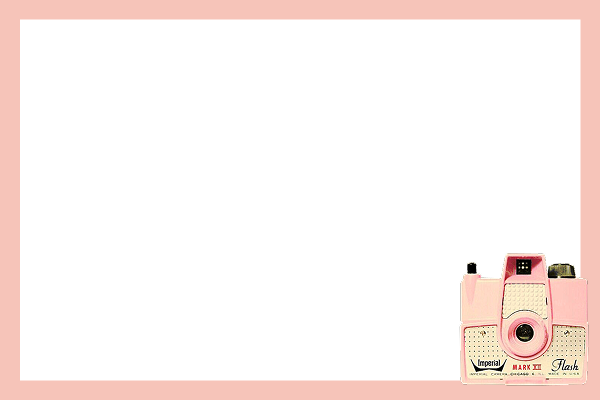
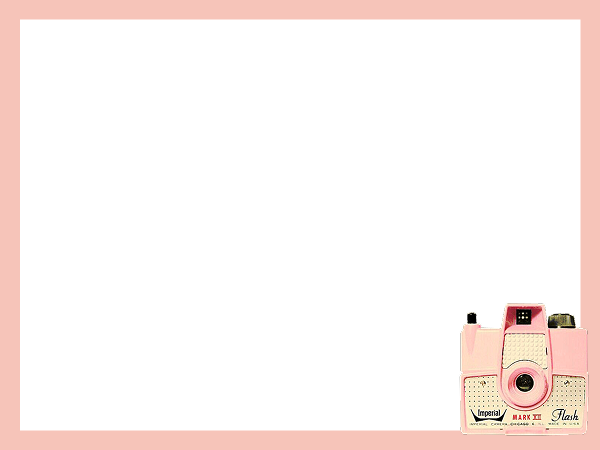
(Feat) 사진 다운로드

Changed region(s): [[0.03, 0.63, 0.99, 0.99], [0.03, 0.03, 0.96, 0.06]]

diff --git a/src/App.tsx b/src/App.tsx
@@ -3,8 +3,12 @@ import { Sidebar } from './components/Sidebar';
 import { MainDisplay } from './components/MainDisplay';
 import { BottomBar } from './components/BottomBar';
 import { Frame } from './components/Frame';
+import { useRef } from 'react';
+import { handleDownload } from './utils/handleDownload';
 
 function App() {
+  const divRef = useRef<HTMLDivElement>(null);
+
   return (
     <div className="flex flex-col h-screen bg-white font-sans text-gray-900">
       <Header />
@@ -29,11 +33,19 @@ function App() {
 
         {/* Right Sidebar */}
         <Sidebar title="프레임" ys={0}>
-           {/* Placeholder items for frame selection */}
+          <div
+            ref={divRef}>
            <Frame idx={1} />
            <Frame idx={2} />
            <Frame idx={3} />
            <Frame idx={4} />
+          </div>
+           <button
+            className="cursor-pointer w-full bg-blue-500 text-white py-2 rounded-md"
+            onClick={() => {
+              handleDownload(divRef);
+            }}
+           >다운로드</button>
         </Sidebar>
 
         <Sidebar title="프레임 선택">

diff --git a/src/components/Frame.tsx b/src/components/Frame.tsx
@@ -10,9 +10,7 @@ export const Frame = ({idx}: {idx?: number}) => {
     return (
         <div className="relative cursor-pointer overflow-hidden ">
             <img className="relative z-10" src="images/pink-cover.png" alt="frame pink" />
-            {/* {idx && capturedPhotos[idx-1] && capturedPhotos[idx-1].selectedIdx !== undefined && <img className="absolute top-0 left-0 w-full h-full object-cover" src={capturedPhotos[idx-1].src} alt={`frame ${idx}`} />} */}
-            
-            {src && <img className="video-filter absolute top-0 left-0 w-full h-full object-cover" src={src} alt={`frame ${idx}`} />}
+            {src && <img className="absolute top-0 left-0 w-full h-full" src={src} alt={`frame ${idx}`} />}
         </div>
     );
 };

diff --git a/src/components/MainDisplay.tsx b/src/components/MainDisplay.tsx
@@ -39,7 +39,12 @@ export const MainDisplay = () => {
       canvas.height = videoRef.current.videoHeight;
       const ctx = canvas.getContext('2d');
       try {
-        ctx?.drawImage(videoRef.current, 0, 0);
+        if (ctx) {
+          ctx.filter = 'brightness(1.2) hue-rotate(-10deg) saturate(0.9)';
+          ctx.translate(canvas.width, 0);
+          ctx.scale(-1, 1);
+          ctx.drawImage(videoRef.current, 0, 0);
+        }
         const photoUrl = canvas.toDataURL('image/png');
         addPhoto({idx: capturedPhotoIdx, src: photoUrl});
         setCapturedPhotoIdx(capturedPhotoIdx + 1);

diff --git a/src/utils/handleDownload.tsx b/src/utils/handleDownload.tsx
@@ -1,0 +1,18 @@
+import html2canvas from 'html2canvas-oklch';
+import { saveAs } from 'file-saver';
+
+export const handleDownload = async (divRef: React.RefObject<HTMLDivElement | null>) => {
+    if (!divRef.current) return;
+
+    try {
+      const div = divRef.current;
+      const canvas = await html2canvas(div, { scale: 1 });
+      canvas.toBlob((blob) => {
+        if (blob !== null) {
+          saveAs(blob, "result.png");
+        }
+      });
+    } catch (error) {
+      console.error("Error converting div to image:", error);
+    }
+  };

diff --git a/src/components/BottomBar.tsx b/src/components/BottomBar.tsx
@@ -29,7 +29,7 @@ export const BottomBar = () => {
           <img 
             src={photo.src} 
             alt={`Captured photo ${photo.idx + 1}`} 
-            className="w-full h-full object-cover video-filter"
+            className="w-full h-full object-cover"
           />
           <div className="absolute inset-0 bg-opacity-0 group-hover:bg-opacity-10 transition-all duration-200" />
           { photo.selectedIdx && (
